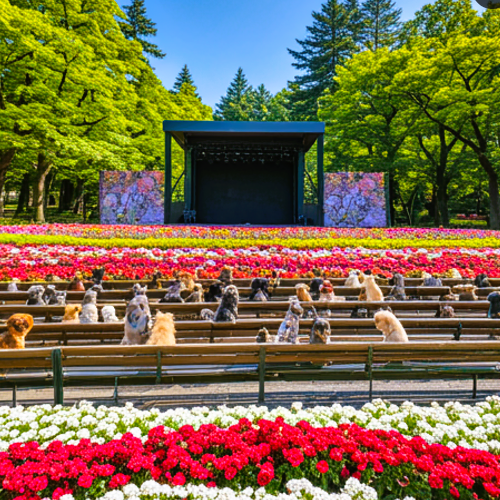
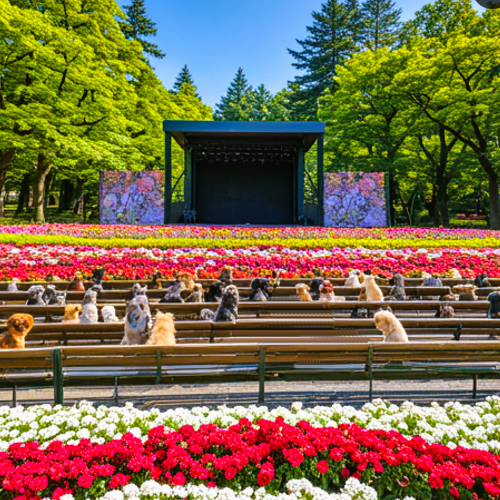
Add files via upload

Changed region(s): [[0.51, 0.57, 0.75, 0.69], [0.57, 0.72, 0.66, 0.75]]

diff --git a/style.css b/style.css
@@ -133,15 +133,6 @@ p {
   font-style: normal;
 }
 
-.panel {
-  border-radius: 0 !important;
-  transition: box-shadow 0.5s;
-}
-
-.panel:hover {
-  box-shadow: 5px 0px 40px rgba(0, 0, 0, .2);
-}
-
 .panel-footer .btn:hover {
   background-color: #fff !important;
   color: #f4511e;
@@ -223,7 +214,9 @@ p {
   background: blue;
   border-radius: 0 !important;
   transition: box-shadow 0.5s;
-  box-shadow: 10px 1px 50px rgba(0, 0, 0, 0.2);
+  /*box-shadow: 10px 1px 50px rgba(0, 0, 0, 0.2);*/
+  box-shadow: 1px 1px 1px white;
+  border: none;
 }
 
 /* Carousel with my pictures from the JavaScript course */

diff --git a/index.html b/index.html
@@ -165,7 +165,7 @@
               <div class="thumbnail">
                 <img src="./image1.png" alt="flower 1">
                 <p style='color: cyan; text-align: center;'><strong>Peonies</strong></p>
-                <button class="btn" data-toggle="modal" data-target="#myModal">BUY PEONY</button>
+                <button class="btn" data-toggle="modal" data-target="#myModal">BUY NOW!</button>
               </div>
             </div>
 
@@ -173,7 +173,7 @@
               <div class="thumbnail">
                 <img src="./image2.png" alt="flower 2">
                 <p style='color: cyan; text-align: center;'><strong>Daisies</strong></p>
-                <button class="btn" data-toggle="modal" data-target="#myModal">BUY DAISY</button>
+                <button class="btn" data-toggle="modal" data-target="#myModal">BUY NOW!</button>
               </div>
             </div>
 
@@ -181,7 +181,7 @@
               <div class="thumbnail">
                 <img src="./image3.png" alt="flower 3">
                 <p style='color: cyan; text-align: center;'><strong>Tulips</strong></p>
-                <button class="btn" data-toggle="modal" data-target="#myModal">BUY TULIP</button>
+                <button class="btn" data-toggle="modal" data-target="#myModal">BUY NOW!</button>
               </div>
             </div>
 
@@ -479,7 +479,7 @@
     </div>
 
 
-    <div class="container-fluid bg-grey">
+    <div class="container-fluid bg-white">
 
       <h3 style="text-align: center; color: cyan; font-weight: 700; margin-top: 45px; margin-bottom: 35px;">TEAM
       </h3>